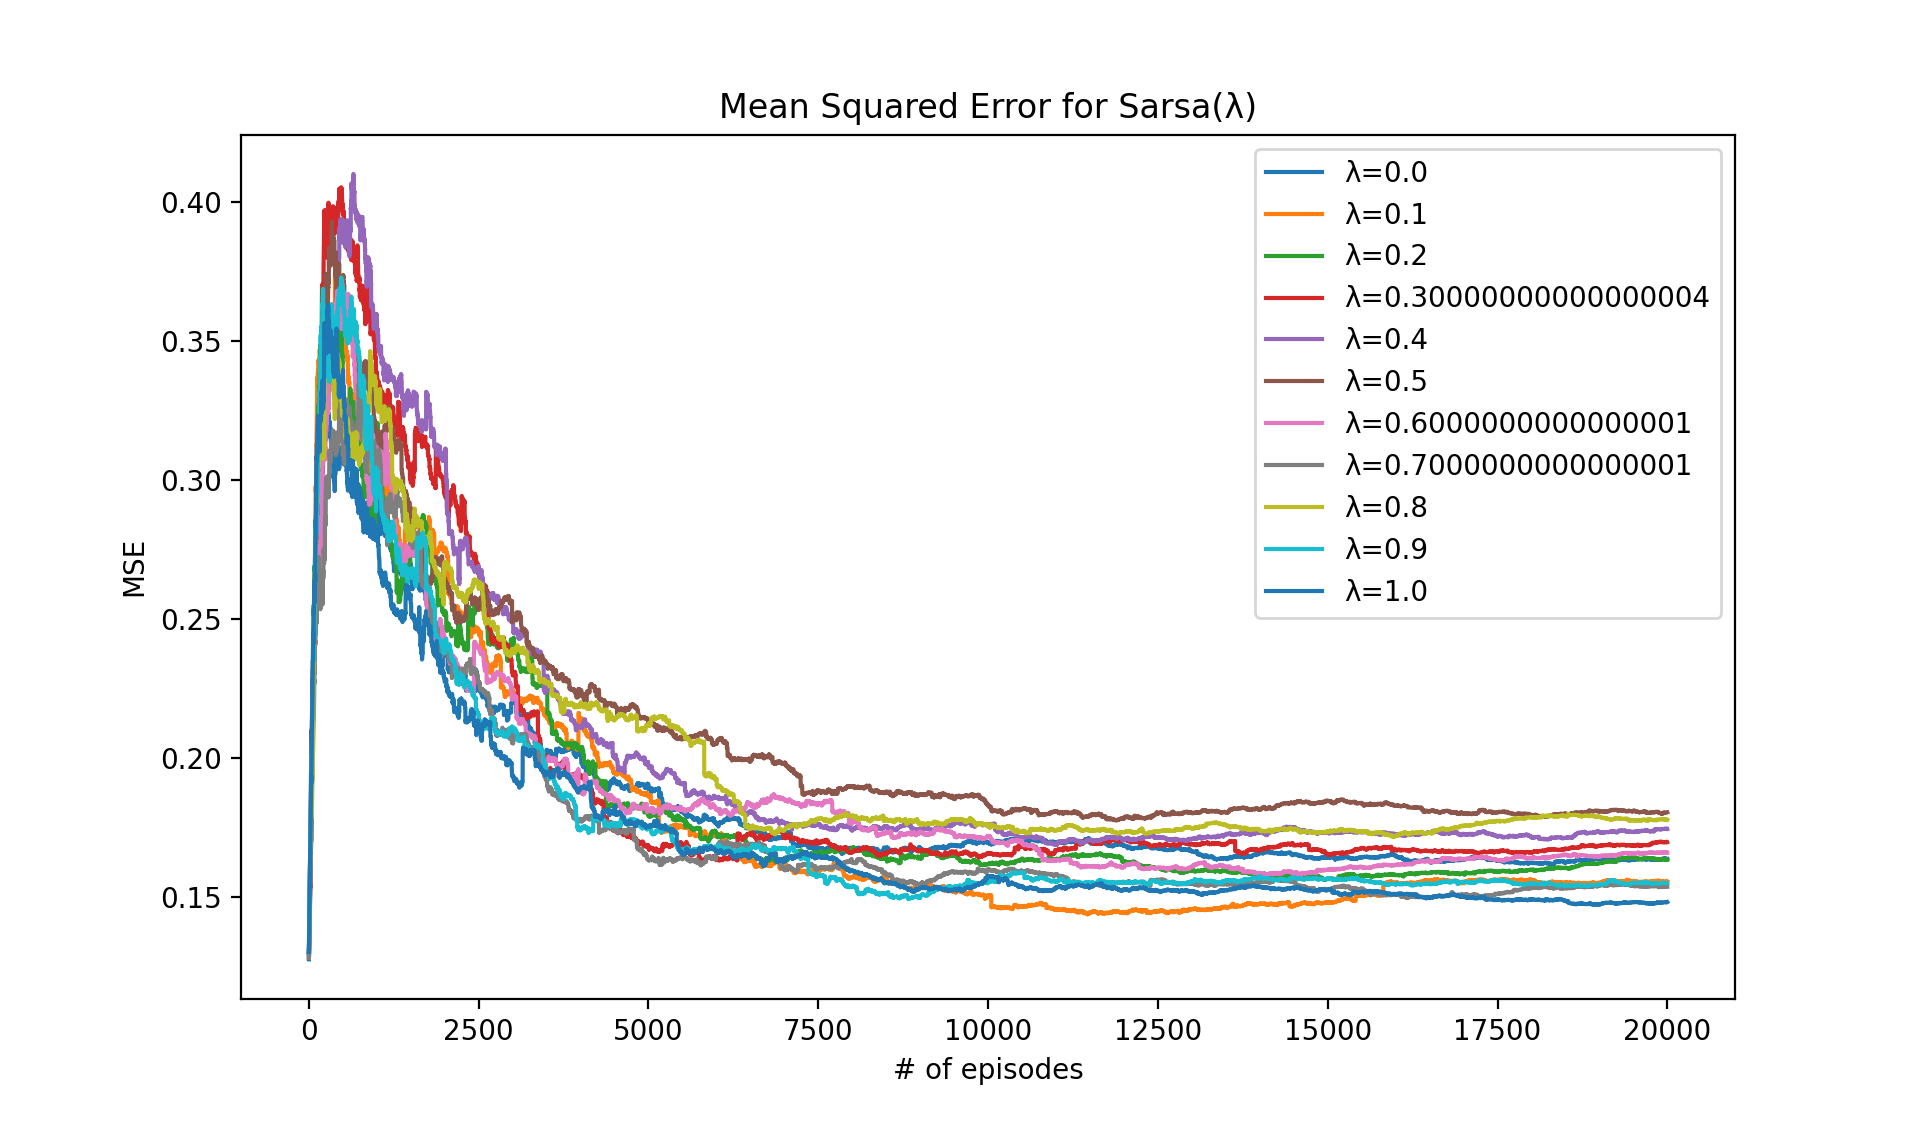
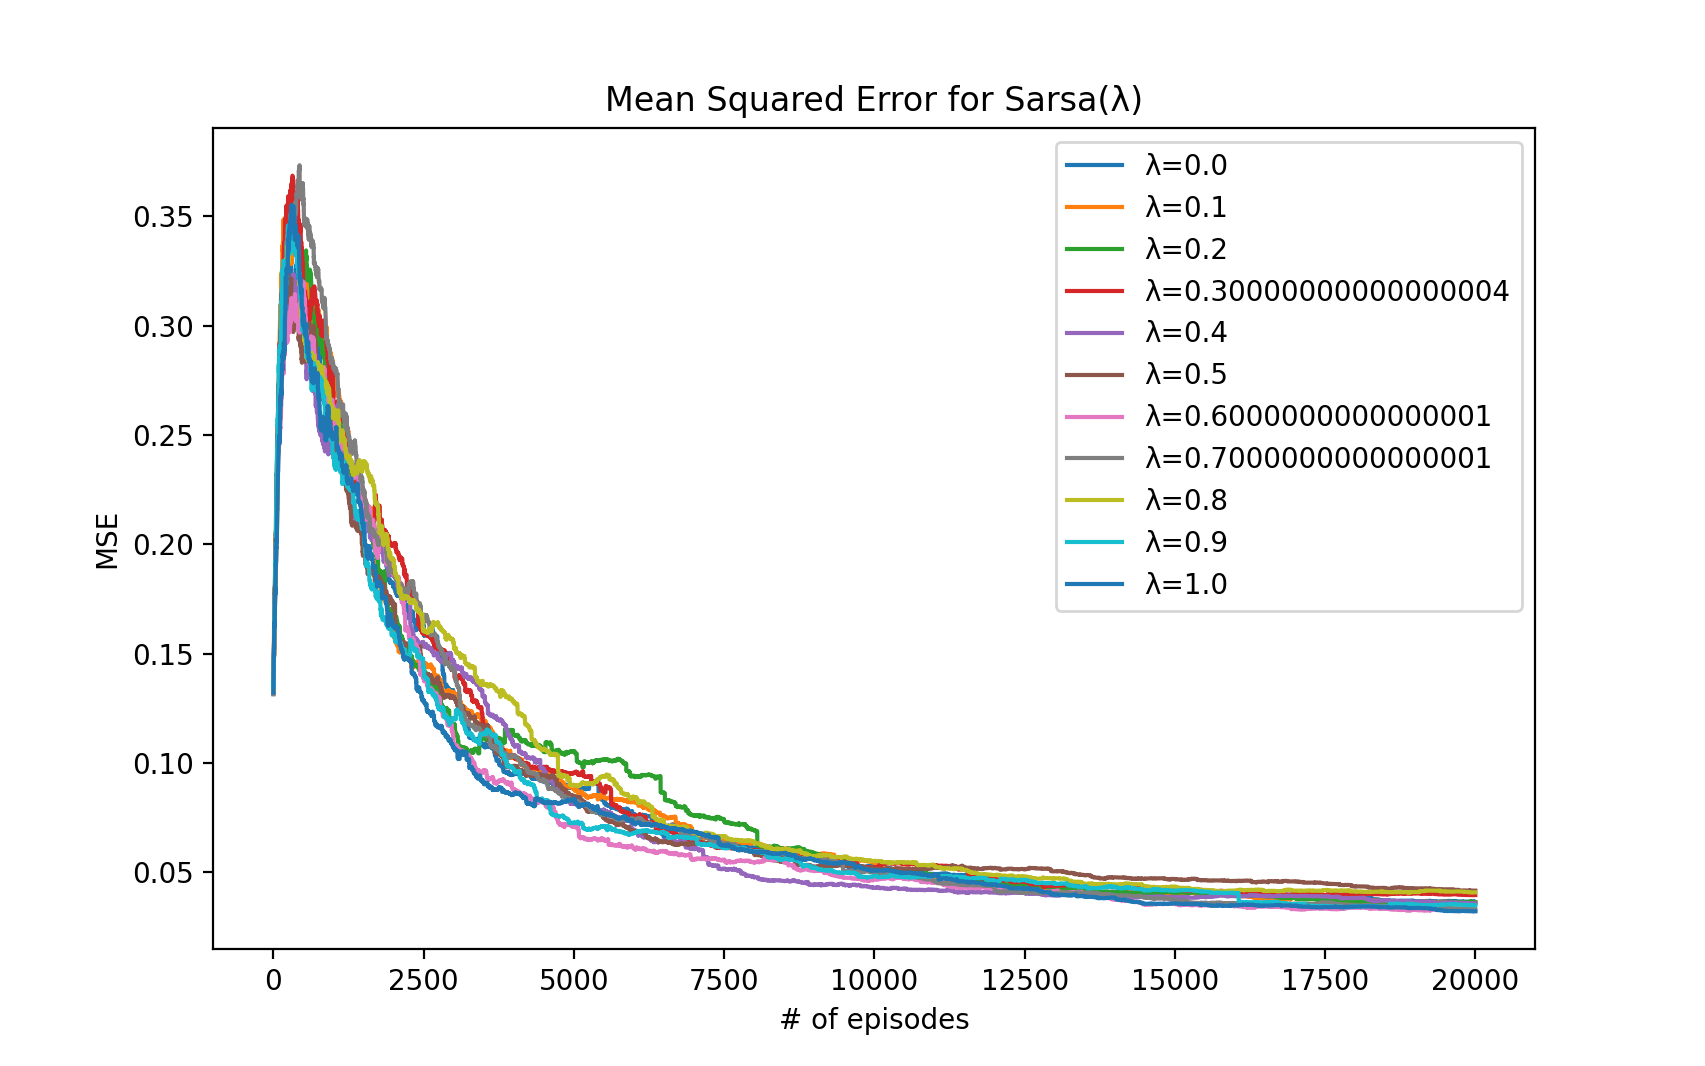
fix assignment3 to be improved + write up

diff --git a/src/sarsa-lambda-e21.py b/src/sarsa-lambda-e21.py
@@ -44,49 +44,50 @@ if __name__ == "__main__":
 
     mse_errors = []
 
-    for lmbda in np.arange(0,1.1,0.1):
+    # for lmbda in np.arange(0,1.1,0.1):
+    lmbda = 1
         
-        errors = []
+    errors = []
 
-        print("Running with Lambda = {}".format(lmbda))
+    print("Running with Lambda = {}".format(lmbda))
 
-        e = Easy21()
-        agent = Easy21TDSarsa(gamma=1,lambda_=lmbda)
-        cum_reward = [0]
+    e = Easy21()
+    agent = Easy21TDSarsa(gamma=1,lambda_=lmbda)
+    cum_reward = [0]
 
-        ''' 
-        TRAINING LOOOP
-        '''
+    ''' 
+    TRAINING LOOOP
+    '''
 
-        N = 20000 # num of episodes
-        for i in range(1,N):
-            e.reset()
-            agent.reset_e()
-            state = e.get_state()
-            action = agent.policy(state)
-            r = 0
-            # print("Evaluating episode {}...".format(i))
-            while not e.is_terminated():
-                prev_state = state
-                state, reward = e.step(state, action)
-                prev_action = action
-                action = agent.policy(state) if not e.is_terminated() else 1 # If S' is a terminal state
-                r += reward
-                agent.log_return(prev_state, prev_action, reward, state, action)
-                agent.update_value()
-                agent.reset_returns()
-                # print("Prev_State: {}\nAction: {}\nNew_State: {}\nReward: {}".format(prev_state, action, state, reward))
-            # print("Dealer Score: {}\nPlayer Score: {}".format(e.get_dealer_score(), e.get_player1_score()))
-            cum_reward.append(cum_reward[i-1] + r)
-            errors.append(mse(Q, agent.q))
+    N = 70000 # num of episodes
+    for i in range(1,N):
+        e.reset()
+        agent.reset_e()
+        state = e.get_state()
+        action = agent.policy(state)
+        r = 0
+        # print("Evaluating episode {}...".format(i))
+        while not e.is_terminated():
+            prev_state = state
+            state, reward = e.step(state, action)
+            prev_action = action
+            action = agent.policy(state) if not e.is_terminated() else 2 # If S' is a terminal state
+            r += reward
+            agent.log_return(prev_state, prev_action, reward, state, action)
+            agent.update_value()
+            agent.reset_returns()
+            # print("Prev_State: {}\nAction: {}\nNew_State: {}\nReward: {}".format(prev_state, action, state, reward))
+        # print("Dealer Score: {}\nPlayer Score: {}".format(e.get_dealer_score(), e.get_player1_score()))
+        cum_reward.append(cum_reward[i-1] + r)
+        errors.append(mse(Q, agent.q))
 
-        mse_errors.append(errors)
+    mse_errors.append(errors)
 
     # print(len(mse_errors))
     '''
     Visualize Agent Performance
     '''
-    # visualize(agent, cum_reward, N)
+    
     X = range(1,N)
     l = np.arange(0, 1.1, 0.1)
     for idx, curve in enumerate(mse_errors):
@@ -98,4 +99,5 @@ if __name__ == "__main__":
     plt.ylabel("MSE")
     plt.title("Mean Squared Error for Sarsa(λ)")
     plt.show()    
- 
+
+    visualize(agent, cum_reward, N)

diff --git a/src/agents/MonteCarlo.py b/src/agents/MonteCarlo.py
@@ -66,9 +66,9 @@ class MonteCarloAgent:
         for state in self._returns:
             action = self._returns[state][0]
             alpha = 1 / self._state_count[state][action]
-            # i = len(self._returns.keys()) - 1
-            # last = list(self._returns.keys())[i]
-            self.q[state][action] += alpha*(self._returns[state][1] - self.q[state][action]) # do this for both actions?
+            i = len(self._returns.keys()) - 1
+            last = list(self._returns.keys())[i]
+            self.q[state][action] += alpha*(self._returns[last][1] - self.q[state][action]) # do this for both actions?
 
 
     def policy(self, state, greedy=False) -> int:

diff --git a/assignment-docs/submissions/assignment-3.md b/assignment-docs/submissions/assignment-3.md
@@ -11,30 +11,56 @@ The aproach for this is slightly more technically complicated than the TD(0) app
 
 In practice this is implemented using the backwards backup so that the algorithm can be used in online simulation. This is accomplished through the use of an eligibility trace. The eligibily trace makes use of a frequency and time-decay heuristic to assign the credit proportionally to its role in recieving some reward. In the code, it is a simple lookup table that is incremented each time a state is visited, and decayed exponentially otherwise at every timestep.
 
+This Eligibility trace is used to solve for the TD error, which is then used to backup the Q(s,a) value.
+
+<i>E(s,a) &#8592; &gamma;&lambda;E(s,a) + 1(S<sub>t</sub> = s, a<sub>t</sub> = a)</i>
+
+The delta is defined asL
+<i>&delta; &#8592; R + &gamma;Q(S',A') - Q(S,A)</i>
+
+Then for all states and actions the Q values are updated, and the eligibility trace is as well, at each timestep:
+
+<i>Q(s,a) &#8592; Q(s,a) + &alpha;&delta;E(s,a)</i>
+<i>E(s,a) &#8592; &gamma;&lambda;E(s,a)</i>
+
+
 ## The Results
 
 <table>
   <tr>
-    <th><img src="./images/assignment3/value.png" alt="Value functions" width ="500"></th>
+    <th><img src="./images/assignment3/mse.png" alt="MSE" width ="500"></th>
   </tr>
   <tr>
     <th>
-      Figure 1: Value functions
+      Figure 1: Mean Squared Error versus Monte Carlo
     </th>
   </tr>
 </table>
+
 
 <table>
   <tr>
-    <th><img src="./images/assignment3/mse.png" alt="Mean Squared Error" width ="500"></th>
-  </tr>
-  <tr>
-    <th>
-      Figure 2: Mean Squared error against Monte Carlo
-    </th>
+    <tr>
+      <th><img src="./images/assignment3/sarsa-value.png" alt="Sarsa Value" width ="250"></th>
+    </tr>
+    <tr>
+      <th>
+        Figure 2: Sarsa(&lambda;) Value Functions for 70k iterations, &lambda; = 1
+      </th>
+    </tr>
+    <tr>
+      <th><img src="./images/assignment3/sarsa-policy.png" alt="Sarsa Policy" width ="250"></th>
+    </tr>
+    <tr>
+      <th>
+        Figure 3: Sarsa(&lambda;) Policy Map
+      </th>
+    </tr>
   </tr>
 </table>
 
-Here we can see in *Figure 1* that the value function is similar but not identical to that achieved by the Monte-Carlo method.
+Here we can see in *Figure 2* that the value function is very similar to that of the monte carlo, and this is confirmed in *Figure 1* where we see the MSE is under 0.05 for all &lambda; values. 
 
-Looking at *Figure 2* we see that the MSE decays overtime with more iterations, but appears to reach an asymptote around 0.15, which is rather high. It's not entirely obvious why there is such a discrepancy between the two models. While they may convrge on different value functions, the should convery on the ideal policy (which they do not). I suspect this has to do with how the system handles terminal states, and will make an attempt to remedy that in the future.
+Notice that hte performance is best (in MSE) when &lambda; = 1, that is sensible since that makes it a monte-carlo computation, taking n steps, where the episodes has n steps.
+
+Looking at *Figure 3* we observe that the policy map differs quite a bit from that of the one detailed for monte carlo, but still is effective nonetheless at generating the correct value function and increasing returns.
